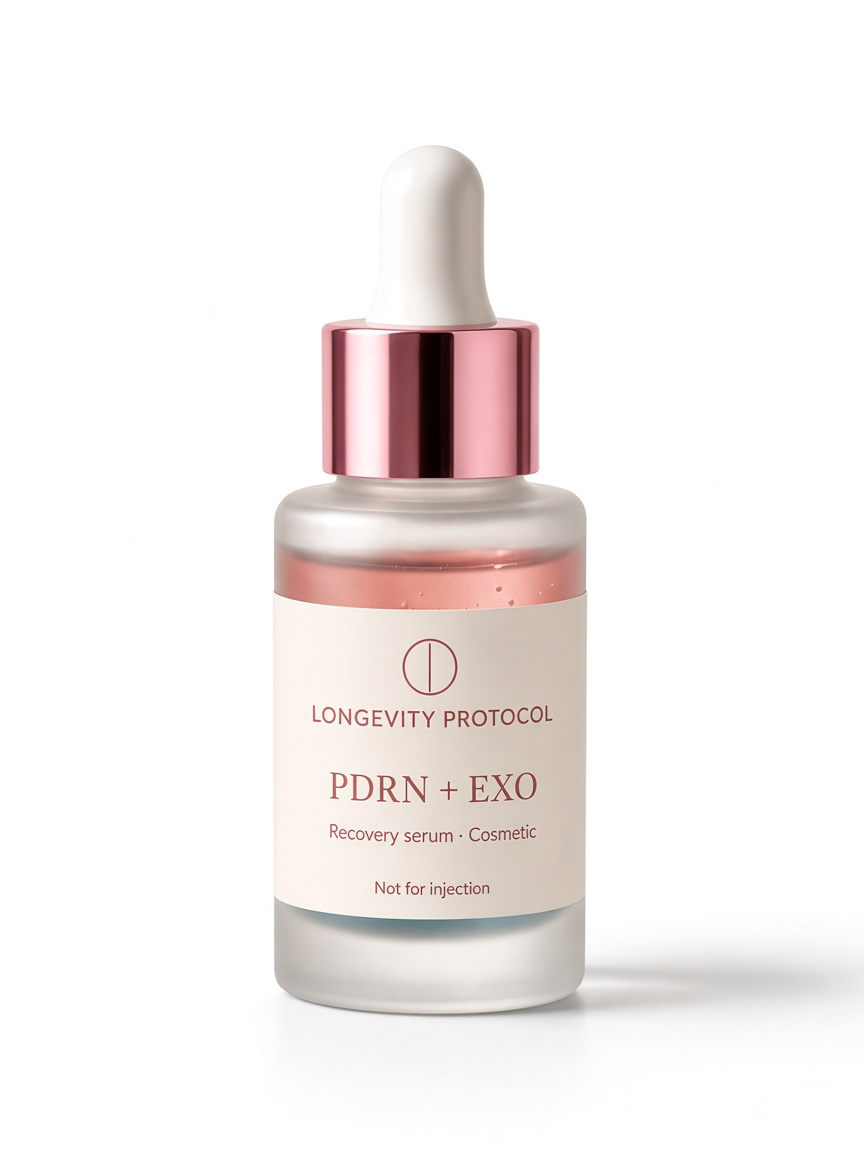
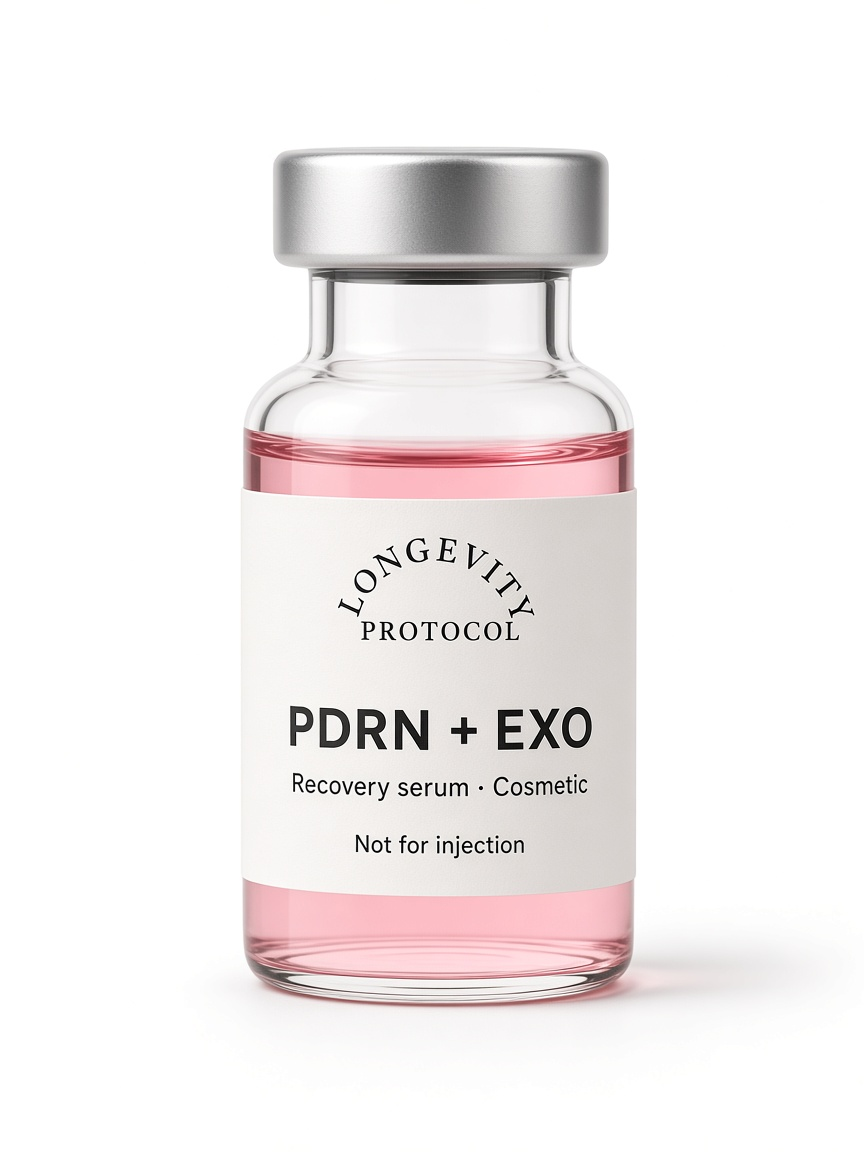
Show serums as plain glass vials with labels on the bottle.
Replaces dropper collars with a standard crimp vial so the pack label sits on the glass instead of floating over a blank sticker.

Changed region(s): [[0.2812, 0.125, 0.9688, 0.9062]]

diff --git a/src/components/ProductPhoto.tsx b/src/components/ProductPhoto.tsx
@@ -22,9 +22,7 @@ export function ProductPhoto({
   labelDetail?: string;
   labelFooter?: string;
 }) {
-  const overlayLabel =
-    Boolean(labelName) &&
-    (src.includes("product-vial") || src.endsWith("product-ghk-cu.png") || src.endsWith("product-matrikine.png"));
+  const overlayLabel = Boolean(labelName) && src.includes("product-vial");
   return (
     <div className={`relative overflow-hidden ${src.includes("product-vial") ? "bg-black" : "bg-white"} ${className}`}>
       <Image
